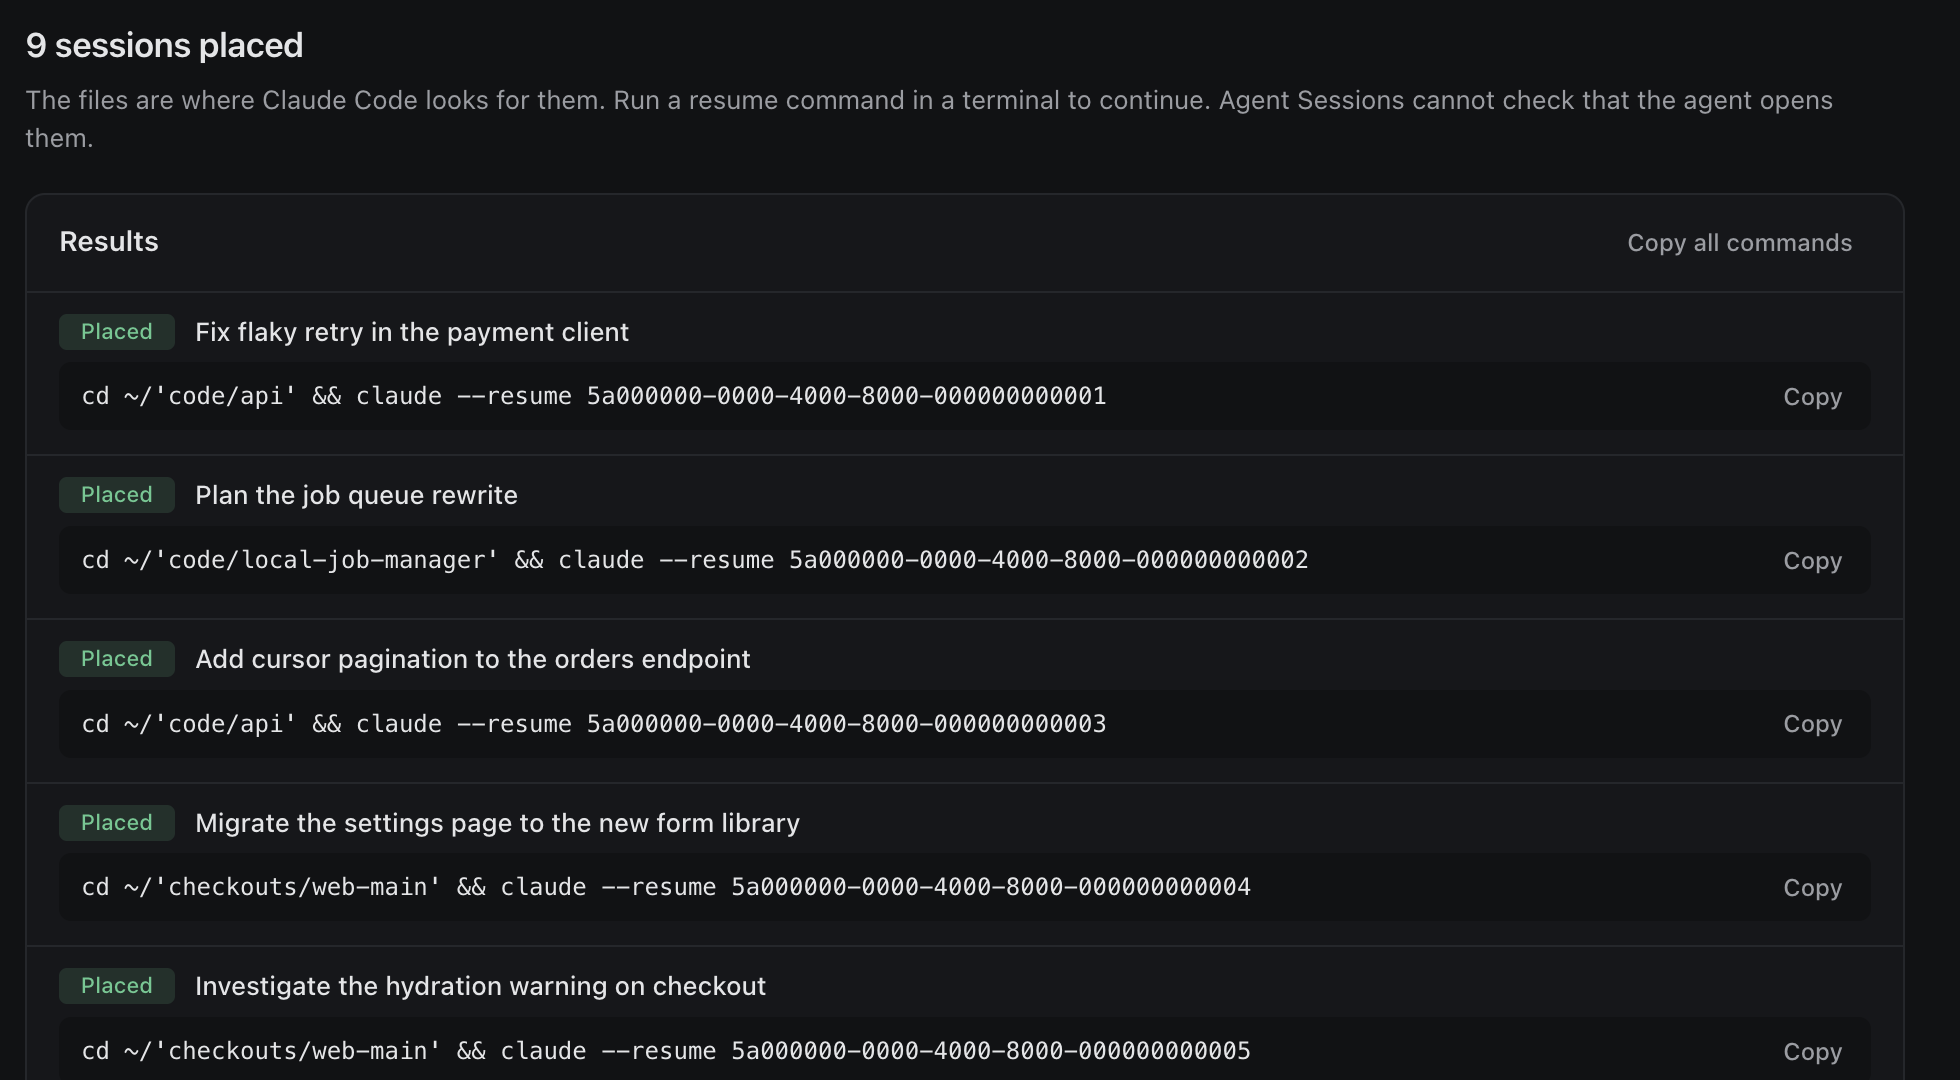
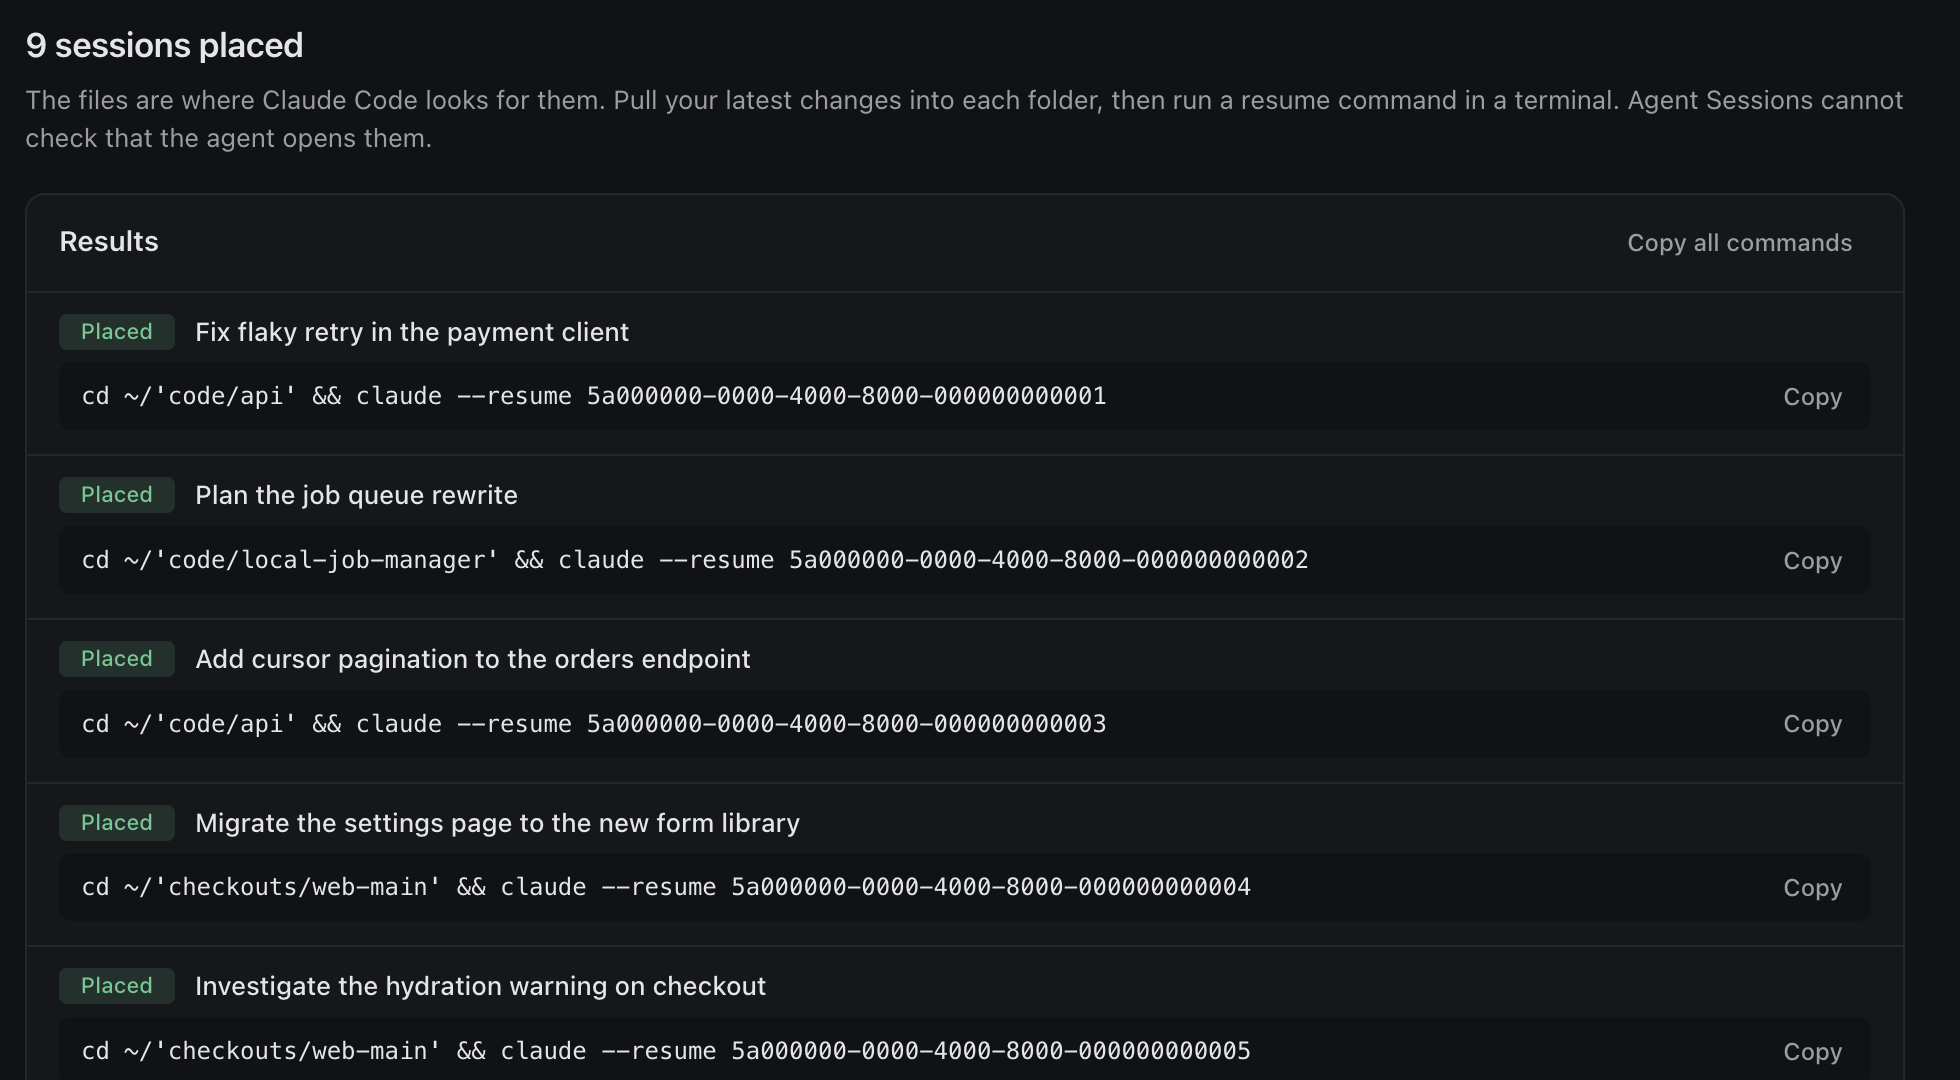
feat(transfer): remind people to bring their project files with the sessions
An archive moves conversations, not code. The export confirm, the import
folders panel, and the results now say to push and pull, or copy the
project, before resuming. The README and site say it too.

Changed region(s): [[0.3423, 0.0611, 0.9648, 0.1222], [0.0, 0.1222, 0.2179, 0.1528]]

diff --git a/src/renderer/src/components/ImportDone.tsx b/src/renderer/src/components/ImportDone.tsx
@@ -25,7 +25,7 @@ export function ImportDone({ screen, onDone }: { screen: DoneScreen; onDone: () 
           <h1>{placed.length > 0 ? `${plural(placed.length, 'session')} placed` : 'Nothing was imported'}</h1>
           <p className="dim">
             {placed.length > 0 &&
-              `The files are where ${agents.join(' and ')} looks for them. Run a resume command in a terminal to continue. Agent Sessions cannot check that the agent opens them. `}
+              `The files are where ${agents.join(' and ')} looks for them. Pull your latest changes into each folder, then run a resume command in a terminal. Agent Sessions cannot check that the agent opens them. `}
             {failed.length > 0 && `${plural(failed.length, 'session')} did not import.`}
           </p>
         </header>

diff --git a/src/renderer/src/components/MappingEditor.tsx b/src/renderer/src/components/MappingEditor.tsx
@@ -40,7 +40,7 @@ export function MappingEditor({ token, mappings, sessions, preview, checking, so
     <section className="panel" aria-labelledby="mapping-heading">
       <header className="panel-head">
         <h2 id="mapping-heading">Folders</h2>
-        <p className="dim">Each folder from the other machine becomes a folder here. Sessions are placed by the folder they started in.</p>
+        <p className="dim">Each folder from the other machine becomes a folder here. Sessions are placed by the folder they started in. Bring the project files over first, with git pull or a copy, because a session resumed in an empty folder has no code to work on.</p>
       </header>
       <ul className="mappings">
         {mappings.map((mapping) => (

diff --git a/site/index.html b/site/index.html
@@ -371,7 +371,7 @@ footer a:hover { color: var(--text); }
       <li class="step">
         <span class="n">02</span>
         <h3>Move the file</h3>
-        <p>Use AirDrop, a USB drive, a synced folder, or any other way you move files. The app never uploads anything.</p>
+        <p>Use AirDrop, a USB drive, a synced folder, or any other way you move files. The app never uploads anything. Bring your code too, with git push and pull or a copy of the project.</p>
         <code class="token"><span class="dim">~/Downloads/</span>work.agentsessions</code>
       </li>
       <li class="step">

diff --git a/src/renderer/src/components/ExportSheet.tsx b/src/renderer/src/components/ExportSheet.tsx
@@ -63,6 +63,7 @@ export function ExportSheet({ screen, sessions, progress, onConfirm, onClose }: 
         <li>contents of files and output of commands the agent read</li>
       </ul>
       <p className="dim">Credentials, auth tokens, settings, and prompt history are never included.</p>
+      <p className="dim">The archive holds the conversations, not your project files. Push your latest changes, or copy the project, so the other computer has them too.</p>
       {live.length > 0 && (
         <div className="note">
           <p>

diff --git a/README.md b/README.md
@@ -20,6 +20,8 @@ Coding agents keep each session on the machine where it ran. Agent Sessions list
 - **Subagents included.** An export includes the subagents each session started.
 - **Local only.** The app makes no network requests. You move the file however you like.
 
+The archive moves conversations, not code. Push your changes before you export and pull them on the other computer before you resume, or copy the project folder if it is not in git. A session resumed in an empty or outdated folder works against the wrong files.
+
 ## Before you share an archive
 
 An archive holds each full transcript, unredacted: the account email recorded in the session, system prompts, every message, and the contents of files and command output the agent read. The app never includes credentials, auth tokens, or settings. Treat the file like the code it quotes. [SECURITY.md](SECURITY.md) has more.
